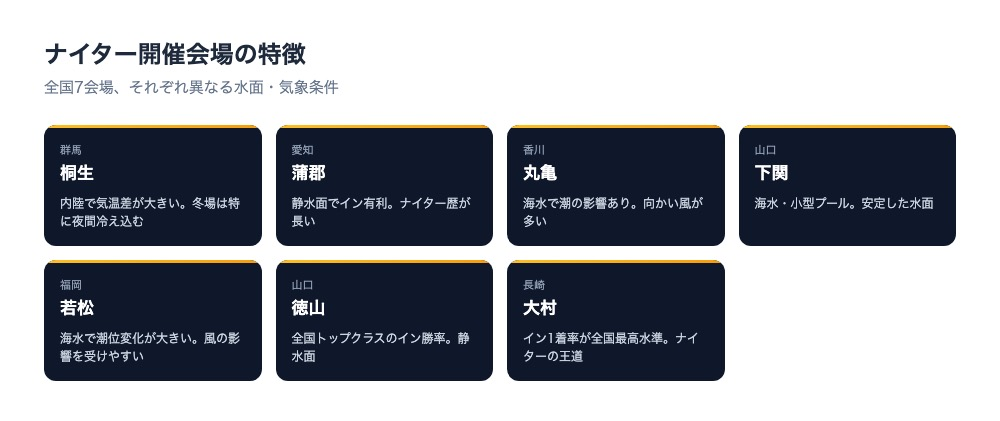
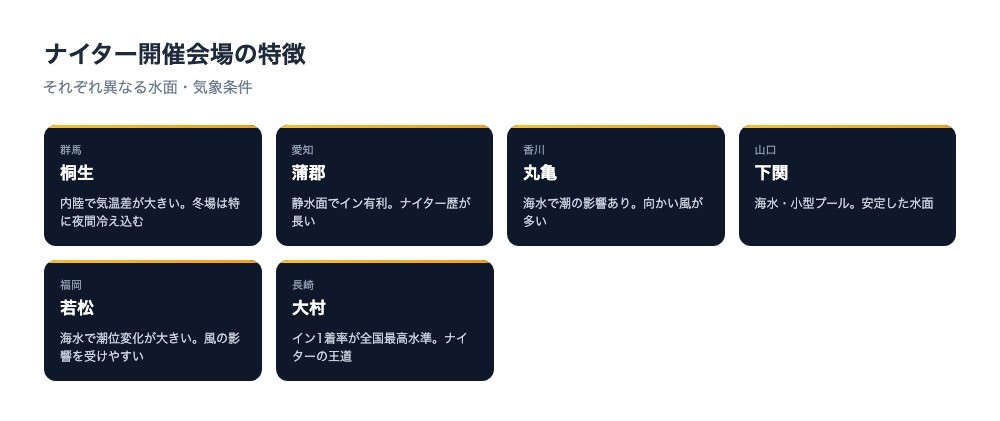
fix: ナイター攻略の記事から、モーニング開催の徳山を外す
徳山はモーニングレースの会場（公式レース一覧 jcd=18 hd=20261013 で1R締切08:47、
venueGuidesEn.js も nightRace: false）。ja・en・ko・zh-tw の4本で、
開催場の表・評価表・本文・画像 alt から徳山を外し、「全7場」の数の主張を
「主な会場」に改めた。画像 night-venues-grid-* も徳山のカードと副題の会場数を外した
（寸法は変えていない）。

Changed region(s): [[0.465, 0.6176, 0.744, 0.9264], [0.279, 0.6485, 0.465, 0.8646], [0.031, 0.1853, 0.341, 0.247]]

diff --git a/public/blog/night-race-strategy-en.md b/public/blog/night-race-strategy-en.md
@@ -16,7 +16,7 @@ This article breaks down the **5 defining features** of night races and a **data
 
 Night races typically run from around **3:00 PM to 8:30 PM**. Because they're easy to catch after work, they've grown rapidly in popularity in recent years.
 
-### The 7 night-race venues
+### Main night-race venues
 
 | Venue | Character |
 |------|------|
@@ -25,10 +25,9 @@ Night races typically run from around **3:00 PM to 8:30 PM**. Because they're ea
 | **Marugame** (Kagawa) | Salt water, affected by tides; frequent headwinds |
 | **Shimonoseki** (Yamaguchi) | Salt water, small pool; stable water conditions |
 | **Wakamatsu** (Fukuoka) | Salt water, large tidal swings; sensitive to wind |
-| **Tokuyama** (Yamaguchi) | Among the nation's best inside win rates; calm water |
 | **Omura** (Nagasaki) | Nation's highest inside-lane 1st-place rate; the heartland of night racing |
 
-![Card grid showing the character of all 7 night-race venues: Kiryu, Gamagori, Marugame, Shimonoseki, Wakamatsu, Tokuyama, and Omura, each with its water and weather conditions](/images/blog/night-venues-grid-en.jpg)
+![Card grid showing the character of the main night-race venues: Kiryu, Gamagori, Marugame, Shimonoseki, Wakamatsu, and Omura, each with its water and weather conditions](/images/blog/night-venues-grid-en.jpg)
 
 ---
 
@@ -58,7 +57,7 @@ Wind tends to **weaken at night** compared to daytime.
 
 **Why:**
 - After sunset, the temperature gradient at ground level shrinks, weakening convection
-- This is especially pronounced at inland Kiryu, and even at bay-adjacent venues like Gamagori, Tokuyama, and Omura
+- This is especially pronounced at inland Kiryu, and even at bay-adjacent venues like Gamagori and Omura
 
 **Impact on your predictions:**
 - Calmer water makes an inside wire-to-wire win more likely
@@ -153,14 +152,13 @@ Not all night-race venues are the same. Understanding each venue's traits matter
 | Marugame | ★★★☆☆ | ★★★☆☆ | Check the tide; the inside is favored at high tide |
 | Shimonoseki | ★★★★☆ | ★★☆☆☆ | Small, stable pool; high inside wire-to-wire rate |
 | Wakamatsu | ★★★☆☆ | ★★★☆☆ | Water conditions shift with wind and tide — rely on the data |
-| Tokuyama | ★★★★★ | ★☆☆☆☆ | Top-tier inside win rate; lane 1 is highly reliable |
 | Omura | ★★★★★ | ★☆☆☆☆ | The inside-lane heartland of night racing; results tend to be predictable |
 
 ---
 
 ## Streamline your night-race predictions with Ryujin Radar
 
-Night races are a genre where understanding the fundamentals can meaningfully raise your hit rate. But researching the water conditions, temperature swings, and each racer's night-racing aptitude across all 7 venues yourself is a lot of work.
+Night races are a genre where understanding the fundamentals can meaningfully raise your hit rate. But researching the water conditions, temperature swings, and each racer's night-racing aptitude across every night-race venue yourself is a lot of work.
 
 **With Ryujin Radar:**
 - All night races across every venue are analyzed by AI in real time

diff --git a/public/blog/night-race-strategy-ko.md b/public/blog/night-race-strategy-ko.md
@@ -14,7 +14,7 @@
 
 나이터는 주로 **오후 3시경부터 8시 30분경**까지 개최되는 레이스입니다. 퇴근 후에도 즐길 수 있어 최근 인기가 급상승하고 있습니다.
 
-### 나이터 개최 경기장(전국 7곳)
+### 나이터 개최 경기장(주요 경기장)
 
 | 경기장 | 특징 |
 |------|------|
@@ -23,10 +23,9 @@
 | **마루가메**(가가와) | 해수면, 조수 영향 있음. 맞바람이 많음 |
 | **시모노세키**(야마구치) | 해수면・소형 풀. 안정된 수면 |
 | **와카마츠**(후쿠오카) | 해수면, 조위 변화가 큼. 바람 영향을 받기 쉬움 |
-| **토쿠야마**(야마구치) | 전국 최상위권 인코스 승률. 정수면 |
 | **오무라**(나가사키) | 인코스 1착률 전국 최고 수준. 나이터의 본고장 |
 
-![나이터 개최 경기장 7곳의 특징을 보여주는 카드 그리드. 키류・가마고리・마루가메・시모노세키・와카마츠・토쿠야마・오무라 각각의 수면・기상 조건을 한눈에 표시](/images/blog/night-venues-grid-ko.jpg)
+![주요 나이터 개최 경기장의 특징을 보여주는 카드 그리드. 키류・가마고리・마루가메・시모노세키・와카마츠・오무라 각각의 수면・기상 조건을 한눈에 표시](/images/blog/night-venues-grid-ko.jpg)
 
 ---
 
@@ -56,7 +55,7 @@
 
 **이유:**
 - 일몰 후 지표면의 온도차가 줄어들어 대류가 약해진다
-- 내륙에 위치한 키류는 특히 뚜렷하며, 해안이라도 만 안쪽인 가마고리・토쿠야마・오무라 역시 마찬가지다
+- 내륙에 위치한 키류는 특히 뚜렷하며, 해안이라도 만 안쪽인 가마고리・오무라 역시 마찬가지다
 
 **예측에 미치는 영향:**
 - 수면이 안정되면 인코스 도주가 성공하기 쉬워진다
@@ -151,14 +150,13 @@
 | 마루가메 | ★★★☆☆ | ★★★☆☆ | 조수 간만을 확인. 만조 시 인코스 유리 |
 | 시모노세키 | ★★★★☆ | ★★☆☆☆ | 소형 풀로 안정적. 인코스 도주율 높음 |
 | 와카마츠 | ★★★☆☆ | ★★★☆☆ | 바람과 조위로 수면이 변화. 데이터 중시 |
-| 토쿠야마 | ★★★★★ | ★☆☆☆☆ | 인코스 승률 최상위. 1번정 신뢰도 높음 |
 | 오무라 | ★★★★★ | ★☆☆☆☆ | 나이터의 인코스 성지. 예측 가능한 결과가 많음 |
 
 ---
 
 ## 용신 레이더로 나이터 예측을 효율화
 
-나이터는 특징을 이해하면 적중률을 높이기 쉬운 장르입니다. 하지만 7개 경기장의 수면 특성・기온 변화・선수의 나이터 적응력을 모두 직접 조사하기란 쉽지 않습니다.
+나이터는 특징을 이해하면 적중률을 높이기 쉬운 장르입니다. 하지만 각 나이터 경기장의 수면 특성・기온 변화・선수의 나이터 적응력을 모두 직접 조사하기란 쉽지 않습니다.
 
 **용신 레이더라면:**
 - 전국 모든 나이터 레이스를 실시간으로 AI 분석

diff --git a/public/blog/night-race-strategy.md b/public/blog/night-race-strategy.md
@@ -16,7 +16,7 @@
 
 ナイターレースは、主に**15時頃〜20時半頃**に開催されるレースです。仕事終わりでも楽しめるため、近年人気が急上昇しています。
 
-### ナイター開催場（全7場）
+### ナイター開催場（主な会場）
 
 | 会場 | 特徴 |
 |------|------|
@@ -25,10 +25,9 @@
 | **丸亀**（香川） | 海水で潮の影響あり。向かい風が多い |
 | **下関**（山口） | 海水・小型プール。安定した水面 |
 | **若松**（福岡） | 海水で潮位変化が大きい。風の影響を受けやすい |
-| **徳山**（山口） | 全国トップクラスのイン勝率。静水面 |
 | **大村**（長崎） | イン1着率が全国最高水準。ナイターの王道 |
 
-![ナイター開催会場7場の特徴を示すカードグリッド。桐生・蒲郡・丸亀・下関・若松・徳山・大村それぞれの水面・気象条件を一覧表示](/images/blog/night-venues-grid-ja.jpg)
+![主なナイター開催会場の特徴を示すカードグリッド。桐生・蒲郡・丸亀・下関・若松・大村それぞれの水面・気象条件を一覧表示](/images/blog/night-venues-grid-ja.jpg)
 
 ---
 
@@ -58,7 +57,7 @@
 
 **理由:**
 - 日没後は地表の温度差が小さくなり、対流が弱まる
-- 特に内陸の桐生、海沿いでも湾内の蒲郡・徳山・大村は顕著
+- 特に内陸の桐生、海沿いでも湾内の蒲郡・大村は顕著
 
 **予想への影響:**
 - 水面が安定するとイン逃げが決まりやすい
@@ -153,14 +152,13 @@
 | 丸亀 | ★★★☆☆ | ★★★☆☆ | 潮の干満をチェック。満潮時はイン有利 |
 | 下関 | ★★★★☆ | ★★☆☆☆ | 小プールで安定。イン逃げ率高め |
 | 若松 | ★★★☆☆ | ★★★☆☆ | 風と潮位で水面が変化。データ重視で |
-| 徳山 | ★★★★★ | ★☆☆☆☆ | イン勝率トップクラス。1号艇信頼度が高い |
 | 大村 | ★★★★★ | ★☆☆☆☆ | ナイターのイン聖地。堅い決着が多い |
 
 ---
 
 ## 龍神レーダーでナイター予想を効率化
 
-ナイターレースは特徴を理解すれば的中率を上げやすいジャンルです。しかし、7会場の水面特性・気温変化・選手のナイター適性をすべて自分で調べるのは大変です。
+ナイターレースは特徴を理解すれば的中率を上げやすいジャンルです。しかし、各ナイター場の水面特性・気温変化・選手のナイター適性をすべて自分で調べるのは大変です。
 
 **龍神レーダーなら:**
 - 全ナイター場のレースをリアルタイムでAI分析

diff --git a/public/blog/night-race-strategy-zh-tw.md b/public/blog/night-race-strategy-zh-tw.md
@@ -16,7 +16,7 @@
 
 夜間賽主要在**下午15時左右〜20時30分左右**舉行。由於下班後也能觀賽，近年來人氣急速上升。
 
-### 夜間賽舉行會場（全國7處）
+### 夜間賽舉行會場（主要會場）
 
 | 會場 | 特徵 |
 |------|------|
@@ -25,10 +25,9 @@
 | **丸龜**（香川） | 海水，受潮汐影響。逆風較多 |
 | **下關**（山口） | 海水・小型水池。水面穩定 |
 | **若松**（福岡） | 海水，潮位變化大。易受風勢影響 |
-| **德山**（山口） | 全國頂級的內道勝率。靜水面 |
 | **大村**（長崎） | 全國最高水準的內道第一名率。夜間賽的代表會場 |
 
-![夜間賽全國7個會場的特徵卡片圖：桐生・蒲郡・丸龜・下關・若松・德山・大村，各自的水面與氣象條件一覽](/images/blog/night-venues-grid-zh-tw.jpg)
+![主要夜間賽會場的特徵卡片圖：桐生・蒲郡・丸龜・下關・若松・大村，各自的水面與氣象條件一覽](/images/blog/night-venues-grid-zh-tw.jpg)
 
 ---
 
@@ -58,7 +57,7 @@
 
 **理由：**
 - 日落後地表溫差縮小，對流減弱
-- 內陸的桐生尤其明顯，即使是臨海的蒲郡、德山、大村等灣內會場也有此傾向
+- 內陸的桐生尤其明顯，即使是臨海的蒲郡、大村等灣內會場也有此傾向
 
 **對預測的影響：**
 - 水面穩定，內道逃走更容易成功
@@ -153,14 +152,13 @@
 | 丸龜 | ★★★☆☆ | ★★★☆☆ | 確認潮汐漲退。滿潮時內道有利 |
 | 下關 | ★★★★☆ | ★★☆☆☆ | 小型水池水面穩定。內道逃走率偏高 |
 | 若松 | ★★★☆☆ | ★★★☆☆ | 水面隨風與潮位變化，應重視數據 |
-| 德山 | ★★★★★ | ★☆☆☆☆ | 內道勝率頂級。1號艇信賴度高 |
 | 大村 | ★★★★★ | ★☆☆☆☆ | 夜間賽的內道聖地。多為穩健結局 |
 
 ---
 
 ## 用龍神雷達提升夜間賽預測效率
 
-夜間賽是理解特徵後容易提升命中率的類型。但要自行調查全國7處會場的水面特性、氣溫變化、選手的夜間適應度，是相當費工的。
+夜間賽是理解特徵後容易提升命中率的類型。但要自行調查各夜間賽會場的水面特性、氣溫變化、選手的夜間適應度，是相當費工的。
 
 **使用龍神雷達：**
 - 即時以AI分析所有夜間賽比賽
